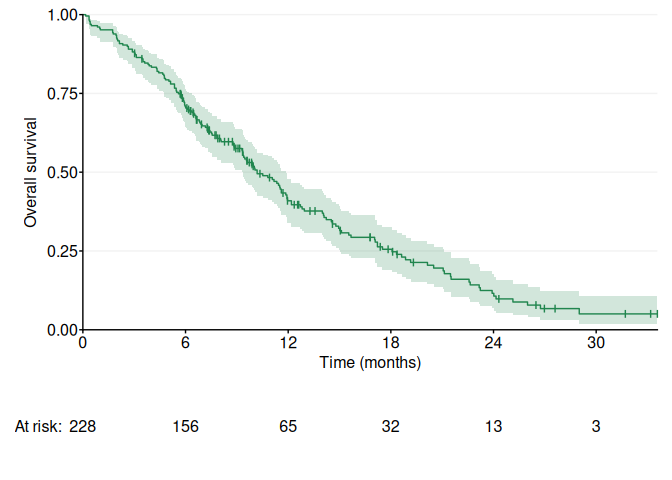
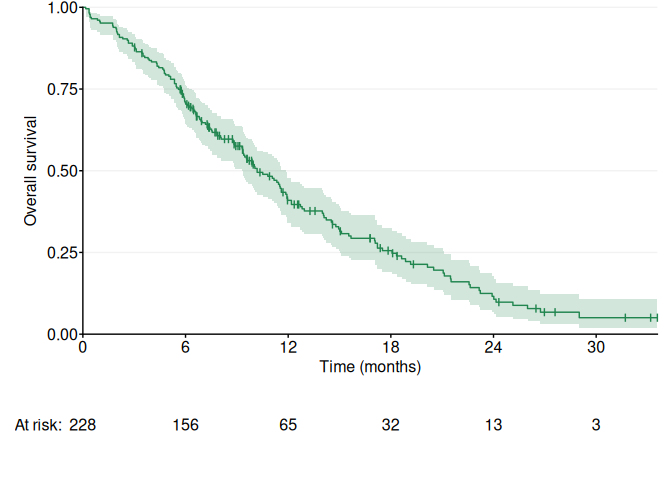
v0.12.0

diff --git a/docs/reference/ggKM.html b/docs/reference/ggKM.html
@@ -9,7 +9,7 @@ table."></head><body>
 
     <a class="navbar-brand me-2" href="../index.html">ggKaplanMeier</a>
 
-    <small class="nav-text text-muted me-auto" data-bs-toggle="tooltip" data-bs-placement="bottom" title="">0.11.2</small>
+    <small class="nav-text text-muted me-auto" data-bs-toggle="tooltip" data-bs-placement="bottom" title="">0.12.0</small>
 
 
     <button class="navbar-toggler" type="button" data-bs-toggle="collapse" data-bs-target="#navbar" aria-controls="navbar" aria-expanded="false" aria-label="Toggle navigation">
@@ -62,6 +62,10 @@ table.</p>
 <span>  legend.nrow <span class="op">=</span> <span class="cn">NULL</span>,</span>
 <span>  legend.pos <span class="op">=</span> <span class="fu"><a href="https://rdrr.io/r/base/c.html" class="external-link">c</a></span><span class="op">(</span><span class="fl">0.9</span>, <span class="fl">0.9</span><span class="op">)</span>,</span>
 <span>  legend.text.align <span class="op">=</span> <span class="fl">1</span>,</span>
+<span>  margin.KM.b <span class="op">=</span> <span class="fl">0</span>,</span>
+<span>  margin.KM.l <span class="op">=</span> <span class="fl">0</span>,</span>
+<span>  margin.KM.r <span class="op">=</span> <span class="fl">0</span>,</span>
+<span>  margin.KM.t <span class="op">=</span> <span class="fl">0</span>,</span>
 <span>  line.width <span class="op">=</span> <span class="fl">0.5</span>,</span>
 <span>  line.height <span class="op">=</span> <span class="fl">0.025</span>,</span>
 <span>  max.t <span class="op">=</span> <span class="cn">NULL</span>,</span>
@@ -191,6 +195,26 @@ Set to <code>"none"</code> if <code>group</code> is <code>NULL</code>.</p></dd>
 <dt id="arg-legend-text-align">legend.text.align<a class="anchor" aria-label="anchor" href="#arg-legend-text-align"></a></dt>
 <dd><p>Legend text alignment: <code>0</code> = left, <code>0.5</code> = center,
 <code>1</code> = right. Default = <code>1</code>.</p></dd>
+
+
+<dt id="arg-margin-km-b">margin.KM.b<a class="anchor" aria-label="anchor" href="#arg-margin-km-b"></a></dt>
+<dd><p>Numeric value specifying the size of the Kaplan–Meier plot
+bottom margin in points. Default = <code>0</code>.</p></dd>
+
+
+<dt id="arg-margin-km-l">margin.KM.l<a class="anchor" aria-label="anchor" href="#arg-margin-km-l"></a></dt>
+<dd><p>Numeric value specifying the size of the Kaplan–Meier plot
+left margin in points. Default = <code>0</code>.</p></dd>
+
+
+<dt id="arg-margin-km-r">margin.KM.r<a class="anchor" aria-label="anchor" href="#arg-margin-km-r"></a></dt>
+<dd><p>Numeric value specifying the size of the Kaplan–Meier plot
+right margin in points. Default = <code>0</code>.</p></dd>
+
+
+<dt id="arg-margin-km-t">margin.KM.t<a class="anchor" aria-label="anchor" href="#arg-margin-km-t"></a></dt>
+<dd><p>Numeric value specifying the size of the Kaplan–Meier plot
+top margin in points. Default = <code>0</code>.</p></dd>
 
 
 <dt id="arg-line-width">line.width<a class="anchor" aria-label="anchor" href="#arg-line-width"></a></dt>

diff --git a/docs/authors.html b/docs/authors.html
@@ -7,7 +7,7 @@
 
     <a class="navbar-brand me-2" href="index.html">ggKaplanMeier</a>
 
-    <small class="nav-text text-muted me-auto" data-bs-toggle="tooltip" data-bs-placement="bottom" title="">0.11.2</small>
+    <small class="nav-text text-muted me-auto" data-bs-toggle="tooltip" data-bs-placement="bottom" title="">0.12.0</small>
 
 
     <button class="navbar-toggler" type="button" data-bs-toggle="collapse" data-bs-target="#navbar" aria-controls="navbar" aria-expanded="false" aria-label="Toggle navigation">
@@ -45,13 +45,13 @@
 
       <p>Hong W (2025).
 <em>ggKaplanMeier: Kaplan-Meier plots</em>.
-R package version 0.11.2, <a href="https://github.com/hongconsulting/ggKaplanMeier" class="external-link">https://github.com/hongconsulting/ggKaplanMeier</a>.
+R package version 0.12.0, <a href="https://github.com/hongconsulting/ggKaplanMeier" class="external-link">https://github.com/hongconsulting/ggKaplanMeier</a>.
 </p>
       <pre>@Manual{,
   title = {ggKaplanMeier: Kaplan-Meier plots},
   author = {Wei Hong},
   year = {2025},
-  note = {R package version 0.11.2},
+  note = {R package version 0.12.0},
   url = {https://github.com/hongconsulting/ggKaplanMeier},
 }</pre>
     </div>

diff --git a/docs/404.html b/docs/404.html
@@ -20,7 +20,7 @@
 
     <a class="navbar-brand me-2" href="https://hongconsulting.github.io/ggKaplanMeier/index.html">ggKaplanMeier</a>
 
-    <small class="nav-text text-muted me-auto" data-bs-toggle="tooltip" data-bs-placement="bottom" title="">0.11.2</small>
+    <small class="nav-text text-muted me-auto" data-bs-toggle="tooltip" data-bs-placement="bottom" title="">0.12.0</small>
 
 
     <button class="navbar-toggler" type="button" data-bs-toggle="collapse" data-bs-target="#navbar" aria-controls="navbar" aria-expanded="false" aria-label="Toggle navigation">

diff --git a/docs/reference/index.html b/docs/reference/index.html
@@ -7,7 +7,7 @@
 
     <a class="navbar-brand me-2" href="../index.html">ggKaplanMeier</a>
 
-    <small class="nav-text text-muted me-auto" data-bs-toggle="tooltip" data-bs-placement="bottom" title="">0.11.2</small>
+    <small class="nav-text text-muted me-auto" data-bs-toggle="tooltip" data-bs-placement="bottom" title="">0.12.0</small>
 
 
     <button class="navbar-toggler" type="button" data-bs-toggle="collapse" data-bs-target="#navbar" aria-controls="navbar" aria-expanded="false" aria-label="Toggle navigation">

diff --git a/docs/index.html b/docs/index.html
@@ -22,7 +22,7 @@
 
     <a class="navbar-brand me-2" href="index.html">ggKaplanMeier</a>
 
-    <small class="nav-text text-muted me-auto" data-bs-toggle="tooltip" data-bs-placement="bottom" title="">0.11.2</small>
+    <small class="nav-text text-muted me-auto" data-bs-toggle="tooltip" data-bs-placement="bottom" title="">0.12.0</small>
 
 
     <button class="navbar-toggler" type="button" data-bs-toggle="collapse" data-bs-target="#navbar" aria-controls="navbar" aria-expanded="false" aria-label="Toggle navigation">

diff --git a/docs/LICENSE.html b/docs/LICENSE.html
@@ -7,7 +7,7 @@
 
     <a class="navbar-brand me-2" href="index.html">ggKaplanMeier</a>
 
-    <small class="nav-text text-muted me-auto" data-bs-toggle="tooltip" data-bs-placement="bottom" title="">0.11.2</small>
+    <small class="nav-text text-muted me-auto" data-bs-toggle="tooltip" data-bs-placement="bottom" title="">0.12.0</small>
 
 
     <button class="navbar-toggler" type="button" data-bs-toggle="collapse" data-bs-target="#navbar" aria-controls="navbar" aria-expanded="false" aria-label="Toggle navigation">
